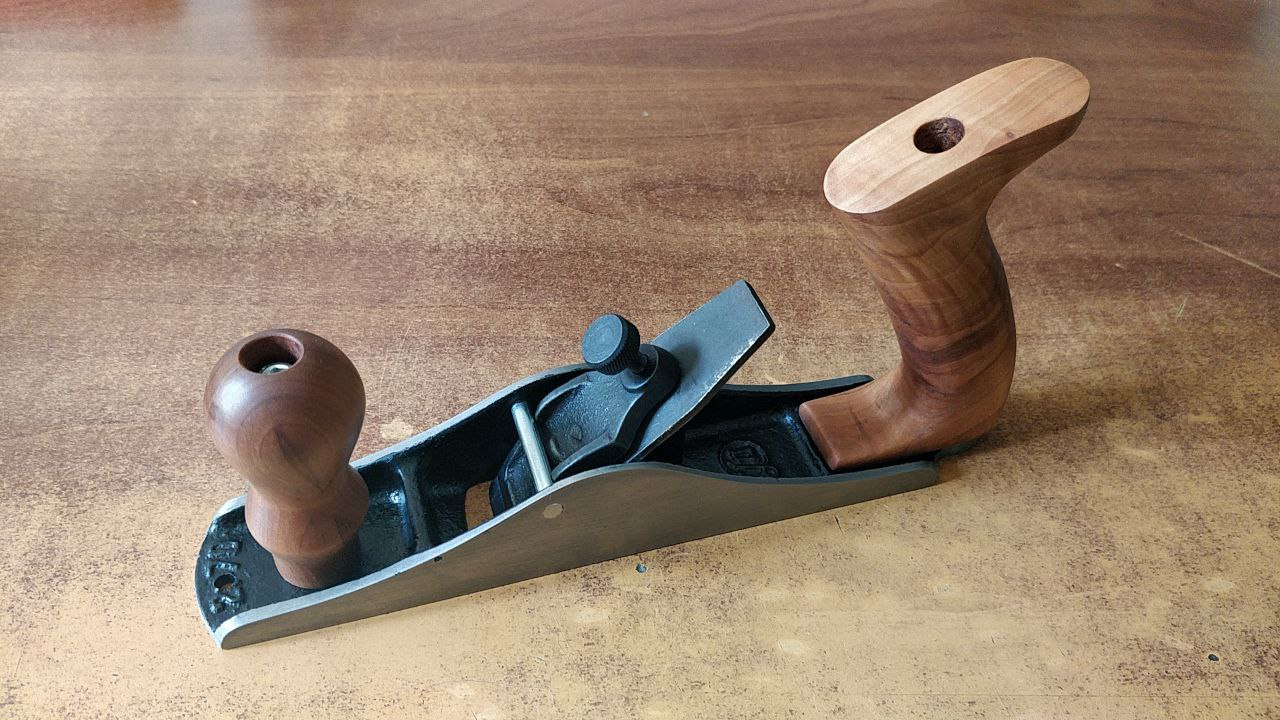
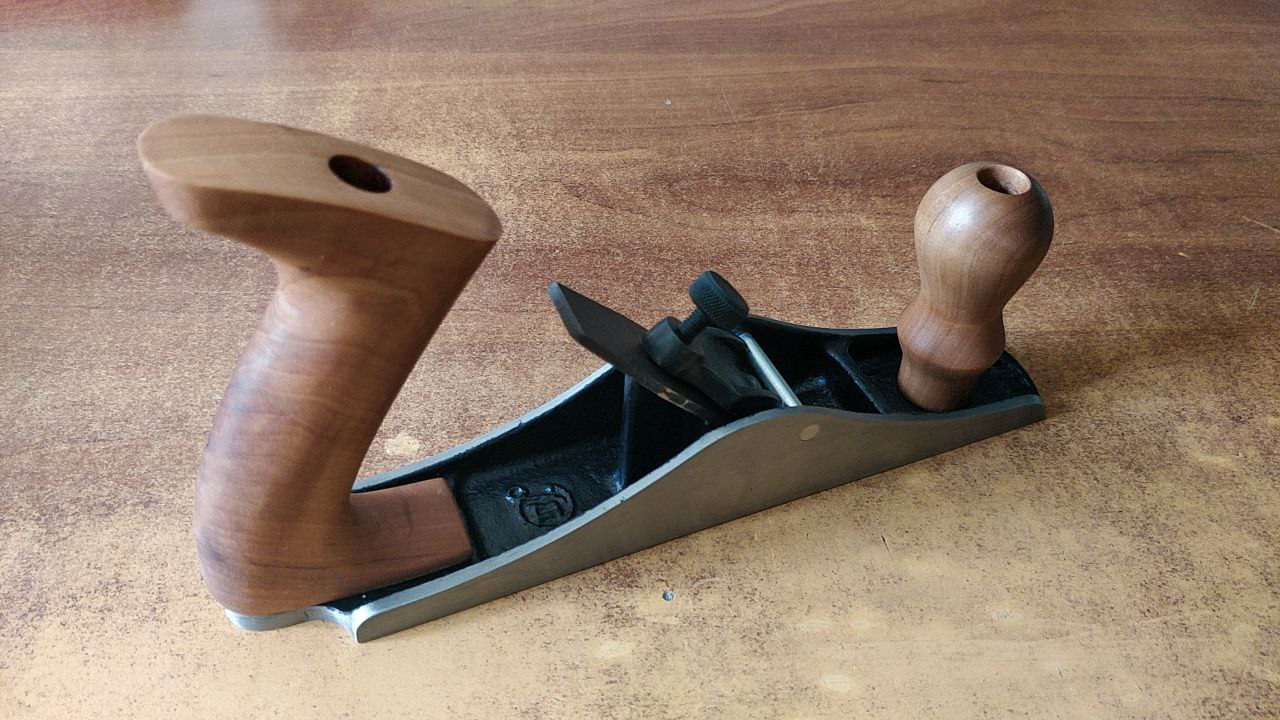
blog post (scrub plane is complete)

diff --git a/_posts/2022-08-05-scrub-plane-complete.md b/_posts/2022-08-05-scrub-plane-complete.md
@@ -1,0 +1,34 @@
+---
+layout: post
+title: "Wannabe Stanley #40 Complete!"
+comments_issue: 12
+title_image: "/assets/images/2022-08-05-scrub-plane-complete/restored-5.jpg"
+---
+
+This was a long and complicated project, and at last, it's over. It's nice to be able to use this plane without getting blisters. It looks pretty and sits well in my hands, but only time will tell if this is the kind of tool I really need.
+
+<!--more-->
+
+With the tote finished and the body restored, I only had to do something about the screw cap.
+
+!["Scrub plane screw cap"](/assets/images/2022-08-05-scrub-plane-complete/hardware.jpg)
+
+The quality of the casting was, of course, abominable. I was actually considering buffing it until it was shiny but abandoned the idea. I just could not get into all the tiny recesses with my tools.
+
+I could have painted the cap, but the paint would take forever to harden, and would eventually rub off anyway. So instead I sanded the outside, degreased everything, applied cold bluing, and then covered it with oil. Same with the thumbscrew.
+
+With that out of the way, I could finally assemble the plane.
+
+!["Restored scrub plane 1"](/assets/images/2022-08-05-scrub-plane-complete/restored-1.jpg)
+!["Restored scrub plane 2"](/assets/images/2022-08-05-scrub-plane-complete/restored-2.jpg)
+!["Restored scrub plane 3"](/assets/images/2022-08-05-scrub-plane-complete/restored-3.jpg)
+
+As an experiment, I made the tote longer than usual.
+
+!["Restored scrub plane 4"](/assets/images/2022-08-05-scrub-plane-complete/restored-4.jpg)
+
+ I can comfortably hold it with all four fingers. As a trade-off, I've lost the ability to adjust the blade with a hammer. The tote is in the way. This is not an issue for a scrub plane, but if I am going to make custom handles for some other piece, this is something I need to consider.
+
+!["Restored scrub plane 5"](/assets/images/2022-08-05-scrub-plane-complete/restored-5.jpg)
+
+The hole in the body looks ugly, but I'll cope with it somehow. Otherwise, the tool looks good, feels good, and is a welcome addition to my toolbox.
